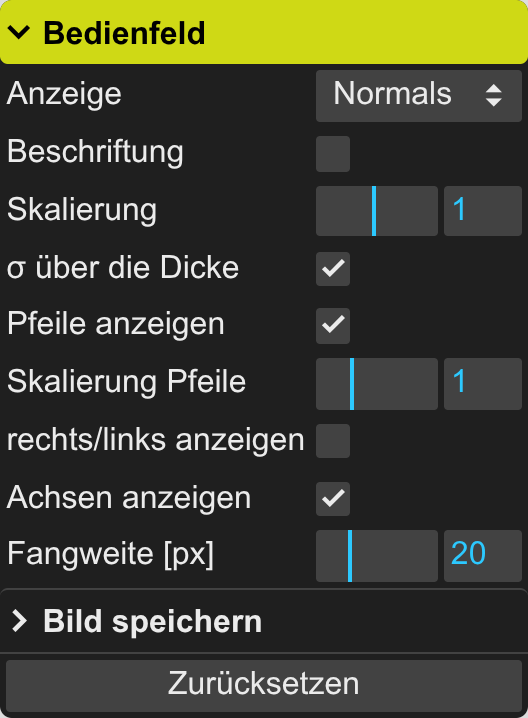
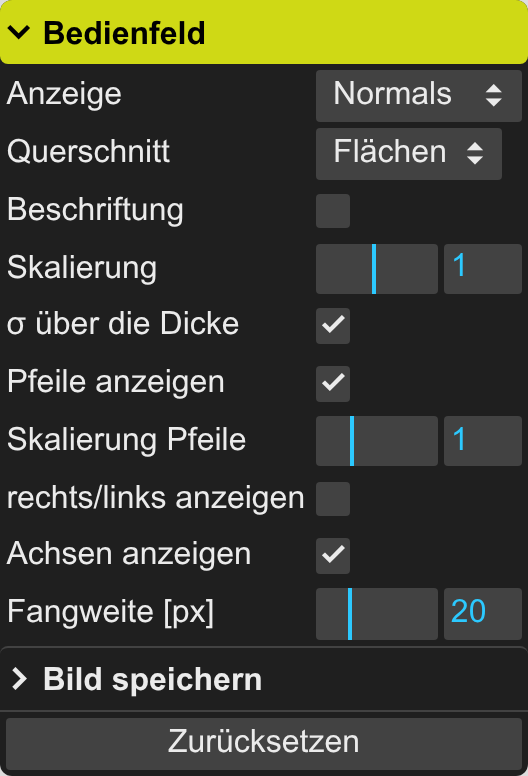
3D: Querschnitt als Flächen, transparent oder Drahtmodell; Kontakt auch auf Englisch
- Bedienfeld: neue Auswahl „Querschnitt“ (Flächen / Flächen transparent / Drahtmodell), damit
  kleine Spannungen nicht im Querschnittskörper verborgen bleiben; Übersetzungen en/es/fr/it
- Kurzdokumentation: Option in allen Sprachen beschrieben, Bedienfeld-Bilder neu aufgenommen
- Kontakt: Hinweis, dass auf Deutsch oder Englisch geschrieben werden kann (en/es/fr/it)

Changed region(s): [[0.0, 0.0306, 1.0, 0.9805]]

diff --git a/src/grafik3d.ts b/src/grafik3d.ts
@@ -33,6 +33,8 @@ import { app } from './state';
  */
 
 type Anzeige = 'keine' | 'sigma' | 'tau' | 'sigmaV' | 'omega' | 'u';
+/** Darstellung des Querschnittskörpers: Flächen, Flächen transparent oder nur Kanten (Drahtmodell). */
+type QuerschnittArt = 'flaechen' | 'transparent' | 'draht';
 
 const FARBE_ZUG = 0x2020d0;       // σ > 0
 const FARBE_DRUCK = 0xd02020;     // σ < 0 (rot = Druck wie bisher)
@@ -47,6 +49,7 @@ const MAX_BILDPIXEL = 16_000_000; // Obergrenze für Canvas-Flächen in Safari/i
 
 const optionen = {
     anzeige: 'sigma' as Anzeige,
+    querschnitt: 'flaechen' as QuerschnittArt,   // kleine negative Spannungen liegen sonst im Körper verborgen
     beschriftung: false,
     sigmaDicke: true,     // σ über die Dicke (Eckwerte) statt über die Mittellinie
     seiten: true,
@@ -272,6 +275,15 @@ function initBedienfeld(): void {
     // fyRd gehört zur Vergleichsspannung und steht direkt unter der Auswahl
     nurBei.push([g.add(optionen, 'fyrd').name(msg('fyRd anzeigen')).onChange(neuAufbauen),
         () => a() === 'sigmaV']);
+
+    const arten: Record<string, QuerschnittArt> = {};
+    arten[msg('Flächen')] = 'flaechen';
+    arten[msg('Flächen transparent')] = 'transparent';
+    arten[msg('Drahtmodell')] = 'draht';
+    g.add(optionen, 'querschnitt', arten).name(msg('Querschnitt')).onChange(() => {
+        querschnittDarstellen();
+        render();
+    });
 
     g.add(optionen, 'beschriftung').name(msg('Beschriftung')).onChange(sichtbarkeit);
     g.add(optionen, 'skalierung', 0.1, 2, 0.1).name(msg('Skalierung')).onChange(neuAufbauen);
@@ -896,14 +908,7 @@ function baueDiagramm(): void {
         minmax = `min/max ${name} : ${text(Math.min(...alle))} / ${text(Math.max(...alle))}`;
     }
 
-    // bei ω und u den unverformten Querschnitt blass im Hintergrund
-    const blass = anzeige === 'omega' || anzeige === 'u';
-    for (const m of querschnittMaterialien) {
-        m.transparent = blass;
-        m.opacity = blass ? 0.2 : 1;
-        m.depthWrite = !blass;
-        m.needsUpdate = true;
-    }
+    querschnittDarstellen();
 
     if (optionen.seitenLR) diagramm.add(baueSeitenLR());
 
@@ -914,6 +919,26 @@ function baueDiagramm(): void {
     byId('v3d-minmax').innerHTML = minmax;
 
     sichtbarkeit();
+}
+
+/**
+ * Querschnittskörper als Flächen, transparente Flächen oder Drahtmodell (nur Kanten). Bei ω und u bleibt der
+ * unverformte Querschnitt immer blass im Hintergrund, weil dort die verformte Scheibe das Diagramm ist.
+ */
+function querschnittDarstellen(): void {
+    const [flaeche, kanten] = querschnittMaterialien;
+    if (!flaeche || !kanten) return;
+    const blass = optionen.anzeige === 'omega' || optionen.anzeige === 'u';
+    const art = optionen.querschnitt;
+    flaeche.visible = art !== 'draht';
+    const durchsichtig = blass || art === 'transparent';
+    flaeche.transparent = durchsichtig;
+    flaeche.opacity = blass ? 0.2 : art === 'transparent' ? 0.25 : 1;
+    flaeche.depthWrite = !durchsichtig;
+    kanten.transparent = blass;
+    kanten.opacity = blass ? 0.2 : 1;
+    kanten.depthWrite = !blass;
+    for (const m of querschnittMaterialien) m.needsUpdate = true;
 }
 
 function sichtbarkeit(): void {

diff --git a/public/Kurzdokumentation_spanish.html b/public/Kurzdokumentation_spanish.html
@@ -337,6 +337,7 @@
 			<li><b>Mostrar fyRd:</b> en la tensión equivalente, f<sub>y,Rd</sub> se dibuja como un plano
 				sobre la sección. Abajo a la derecha se indican la tensión equivalente máxima y el grado de
 				aprovechamiento.</li>
+			<li><b>sección transversal:</b> representa el cuerpo de la sección como <i>Superficies</i>, <i>Superficies transparentes</i> o <i>Modelo alámbrico</i>. Con superficies transparentes o como modelo alámbrico también se ven las tensiones pequeñas que, de lo contrario, quedan ocultas dentro del cuerpo de la sección.</li>
 			<li><b>Rótulos:</b> valores en los extremos de los elementos y valores extremos.</li>
 			<li><b>Escala:</b> exageración de la magnitud representada.</li>
 			<li><b>σ en el espesor:</b> en la tensión normal se dibuja además el cuerpo de tensiones en el
@@ -479,7 +480,7 @@
 		</h2>
 		<p>
 			Para sugerencias, deseos y notificaciones de errores, utiliza la dirección de correo
-			statikverstehen&#x40;web.de.
+			statikverstehen&#x40;web.de (en alemán o en inglés).
 			Al notificar un error suele ser útil adjuntar una copia del archivo de entrada.
 		</p>
 

diff --git a/public/Kurzdokumentation_french.html b/public/Kurzdokumentation_french.html
@@ -343,6 +343,7 @@
 			<li><b>Afficher fyRd :</b> pour la contrainte équivalente, f<sub>y,Rd</sub> est dessiné comme
 				un plan au-dessus de la section. La contrainte équivalente maximale et le taux de travail
 				sont indiqués en bas à droite.</li>
+			<li><b>Section :</b> représente le corps de la section en <i>Surfaces</i>, <i>Surfaces transparentes</i> ou <i>Fil de fer</i>. Avec des surfaces transparentes ou en fil de fer, on voit aussi les petites contraintes qui seraient sinon cachées à l'intérieur du corps de la section.</li>
 			<li><b>Étiquettes :</b> valeurs aux extrémités des éléments et valeurs extrêmes.</li>
 			<li><b>Échelle :</b> amplification de la grandeur représentée.</li>
 			<li><b>σ sur l'épaisseur :</b> pour la contrainte normale, le volume des contraintes sur
@@ -489,7 +490,7 @@
 		</h2>
 		<p>
 			Pour les suggestions, les souhaits et le signalement d'erreurs, utilise l'adresse e-mail
-			statikverstehen&#x40;web.de.
+			statikverstehen&#x40;web.de (en allemand ou en anglais).
 			Pour signaler une erreur, joindre une copie du fichier de saisie est généralement utile.
 		</p>
 

diff --git a/public/Kurzdokumentation_italian.html b/public/Kurzdokumentation_italian.html
@@ -335,6 +335,7 @@
 			<li><b>Mostra fyRd:</b> per la tensione equivalente, f<sub>y,Rd</sub> è disegnato come un piano
 				sopra la sezione. In basso a destra sono indicati la tensione equivalente massima e il grado
 				di sfruttamento.</li>
+			<li><b>Sezione:</b> rappresenta il corpo della sezione come <i>Superfici</i>, <i>Superfici trasparenti</i> o <i>Fil di ferro</i>. Con superfici trasparenti o a fil di ferro si vedono anche le piccole tensioni che altrimenti resterebbero nascoste all'interno del corpo della sezione.</li>
 			<li><b>Etichette:</b> valori alle estremità degli elementi e valori estremi.</li>
 			<li><b>Scala:</b> amplificazione della grandezza rappresentata.</li>
 			<li><b>σ nello spessore:</b> per la tensione normale viene disegnato in più, come cornice, il
@@ -477,7 +478,7 @@
 		</h2>
 		<p>
 			Per suggerimenti, richieste e segnalazioni di errori usa l'indirizzo e-mail
-			statikverstehen&#x40;web.de.
+			statikverstehen&#x40;web.de (in tedesco o in inglese).
 			Nella segnalazione di un errore è spesso utile allegare una copia del file di input.
 		</p>
 

diff --git a/public/Kurzdokumentation_english.html b/public/Kurzdokumentation_english.html
@@ -332,6 +332,7 @@
 			<li><b>Show fyRd:</b> for the equivalent stress, f<sub>y,Rd</sub> is drawn as a plane above the
 				cross section. The maximum equivalent stress and the utilisation are shown at the bottom
 				right.</li>
+			<li><b>Cross-section:</b> shows the cross-section body as <i>Surfaces</i>, <i>Transparent surfaces</i> or <i>Wireframe</i>. With transparent surfaces or as a wireframe, small stresses that would otherwise be hidden inside the cross-section body become visible.</li>
 			<li><b>Labels:</b> values at the element ends and extreme values.</li>
 			<li><b>Scaling:</b> exaggeration of the displayed quantity.</li>
 			<li><b>σ across thickness:</b> for the normal stress, the stress body across the element
@@ -473,7 +474,7 @@
 		</h2>
 		<p>
 			For suggestions, requests and error reports, please use the e-mail address
-			statikverstehen&#x40;web.de.
+			statikverstehen&#x40;web.de (in English or German).
 			For error reports, a copy of the input file as an attachment is usually helpful.
 		</p>
 

diff --git a/public/Kurzdokumentation_deutsch.html b/public/Kurzdokumentation_deutsch.html
@@ -337,6 +337,7 @@
 			<li><b>fyRd anzeigen:</b> Bei der Vergleichsspannung wird f<sub>y,Rd</sub> als Ebene über
 				dem Querschnitt gezeichnet. Rechts unten stehen die größte Vergleichsspannung und die
 				Ausnutzung.</li>
+			<li><b>Querschnitt:</b> Darstellung des Querschnittskörpers als <i>Flächen</i>, <i>Flächen transparent</i> oder <i>Drahtmodell</i>. Transparent oder als Drahtmodell sieht man auch kleine Spannungen, die sonst im Querschnittskörper verborgen liegen.</li>
 			<li><b>Beschriftung:</b> Werte an den Elementenden und Extremwerte.</li>
 			<li><b>Skalierung:</b> Überhöhung der dargestellten Größe.</li>
 			<li><b>σ über die Dicke:</b> Bei der Normalspannung wird zusätzlich der Spannungskörper über
